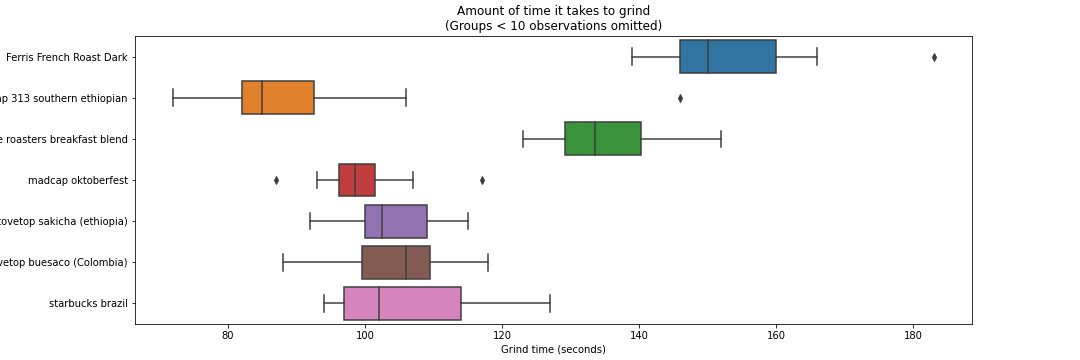
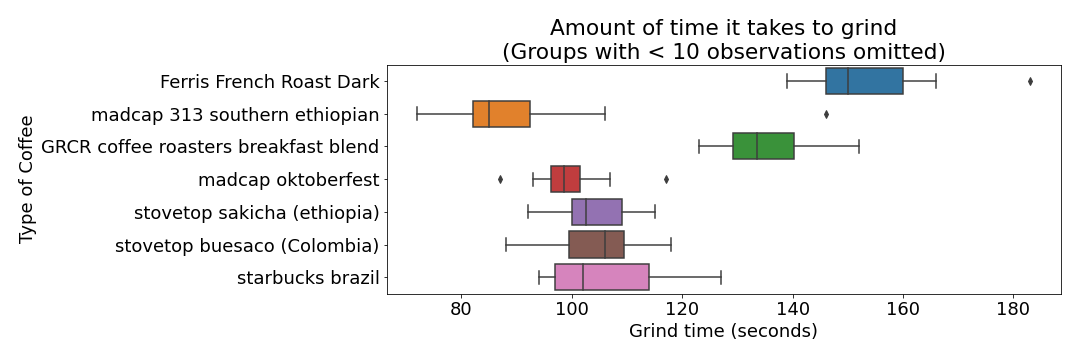
Updates

diff --git a/src/eda.py b/src/eda.py
@@ -42,11 +42,7 @@ df['over'] = df['over'].apply(toFloat)
 df['duration'] = tryTime((df.endTime - df.startTime).values)
 df['duration'] = df['duration'].dt.components.minutes
 
-
-# In[ ]:
-
-
-df.describe()
+plt.rcParams.update({'font.size': 18})
 
 
 # In[ ]:
@@ -58,17 +54,12 @@ calplot.calplot(df['date'].value_counts());
 # In[ ]:
 
 
-df.head()
-
-
-# In[ ]:
-
-
 from matplotlib.ticker import MaxNLocator
-ax = plt.figure().gca()
+fig, ax = plt.subplots(1,1, figsize=(15,5))
 ax.xaxis.set_major_locator(MaxNLocator(integer=True))
 df['coffee'].value_counts().plot(kind='barh');
 ax.set(xlabel='Amount of Observations', title='Amounts of different coffees');
+plt.tight_layout()
 save_fig(plt.gcf(), 'coffee_bar.png')
 
 
@@ -111,6 +102,7 @@ fig, ax = plt.subplots(1,1, figsize=(15,5))
         title='Total Time Spent Making Coffee Each Day', xlabel='Date', ylabel='Total Time (minutes)'
     )
 );
+plt.tight_layout()
 save_fig(fig, 'total.png')
 
 
@@ -125,11 +117,12 @@ plt.subplots_adjust(left, bottom, right, top, wspace, hspace)
     .loc[df.coffee.isin(overTen)]
     .pipe(lambda x: sns.boxplot(x='duration', y='coffee', orient='h', data=x, ax=ax))
     .set(
-        title='Variation of Total Brew Times Across Coffees\n(Groups < 10 observations omitted)',
+        title=f'Variation of Total Brew Times Across Coffees\n{SAMP_WARNING}',
         xlabel='Total brew time (minutes)',
         ylabel='Type of Coffee'
     )
 );
+plt.tight_layout()
 save_fig(fig, 'total_brew.png')
 
 
@@ -143,11 +136,12 @@ plt.subplots_adjust(left, bottom, right, top, wspace, hspace)
     .loc[df.coffee.isin(overTen)]
     .pipe(lambda x: sns.boxplot(x='gTime', y='coffee', orient='h', data=x, ax=ax))
     .set(
-        title='Amount of time it takes to grind\n(Groups < 10 observations omitted)',
+        title=f'Amount of time it takes to grind\n{SAMP_WARNING}',
         xlabel='Grind time (seconds)',
         ylabel='Type of Coffee'
     )
 );
+plt.tight_layout()
 save_fig(fig, 'grind_time.png')
 
 
@@ -161,11 +155,12 @@ plt.subplots_adjust(left, bottom, right, top, wspace, hspace)
     .loc[df.coffee.isin(overTen)]
     .pipe(lambda x: sns.boxplot(x='bTime', y='coffee', orient='h', data=x, ax=ax))
     .set(
-        title='Drawdown time\n(Groups < 10 observations omitted)',
+        title=f'Drawdown Time Varies By Coffee\n{SAMP_WARNING}',
         xlabel='Drawdown (seconds)',
         ylabel='Type of Coffee'
     )
 );
+plt.tight_layout()
 save_fig(fig, 'draw_down.png')
 
 
@@ -175,9 +170,12 @@ save_fig(fig, 'draw_down.png')
 fig, ax = plt.subplots(1,1, figsize=(15,5))
 
 (
-    sns.scatterplot(x='date', y='cTime', data=df, ax=ax)
-    .set(xticklabels=[], title='Count time over time', xlabel='Time')
+    df
+    .pipe(lambda x: x.assign(cTime = x.cTime / 60))
+    .pipe(lambda x: sns.scatterplot(x='date', y='cTime', data=x, ax=ax))
+    .set(xticklabels=[], title='Minutes To Count Beans', xlabel='Time', ylabel='Time (minutes)')
 );
+plt.tight_layout()
 save_fig(fig, 'c_over_time.png')
 
 
@@ -189,6 +187,7 @@ fig, ax = plt.subplots(1,1, figsize=(15,5))
     sns.scatterplot(x='date', y='over', data=df, ax=ax)
     .set(xticklabels=[], title='Overages over time', xlabel='Time', ylabel='Amount overpoured (number of beans)')
 )
+plt.tight_layout()
 ax.axhline(color='red');
 save_fig(fig, 'overages.png')
 
@@ -203,11 +202,12 @@ plt.subplots_adjust(left, bottom, right, top, wspace, hspace)
     .loc[df.coffee.isin(overTen)]
     .pipe(lambda x: sns.boxplot(x='over', y='coffee', orient='h', data=x, ax=ax))
     .set(
-        title='Eyeballing\n(Groups < 10 observations omitted)',
+        title=f'Eyeballing\n{SAMP_WARNING}',
         xlabel='Overage (# of beans)',
         ylabel='Type of Coffee'
     )
 );
+plt.tight_layout()
 ax.axvline(color='red');
 save_fig(fig, 'overages_by_cof.png')
 
@@ -226,4 +226,5 @@ fig, ax = plt.subplots(1,1, figsize=(15,5))
     .pipe(lambda x: sns.scatterplot(x='date', y='unac', data=x, ax=ax)
          .set(title='Random time over time', xlabel='Time', ylabel='Unaccounted for', xticklabels=[]))
 );
+plt.tight_layout()
 

diff --git a/src/helpers.py b/src/helpers.py
@@ -13,6 +13,8 @@ wspace = 0.5  # the amount of width reserved for space between subplots,
 hspace = 0.5  # the amount of height reserved for space between subplots,
               # expressed as a fraction of the average axis height
 
+SAMP_WARNING = '(Groups with < 10 observations omitted)'
+    
 def timeToSec(time):
     """Returns number of seconds in time. """
     try:
